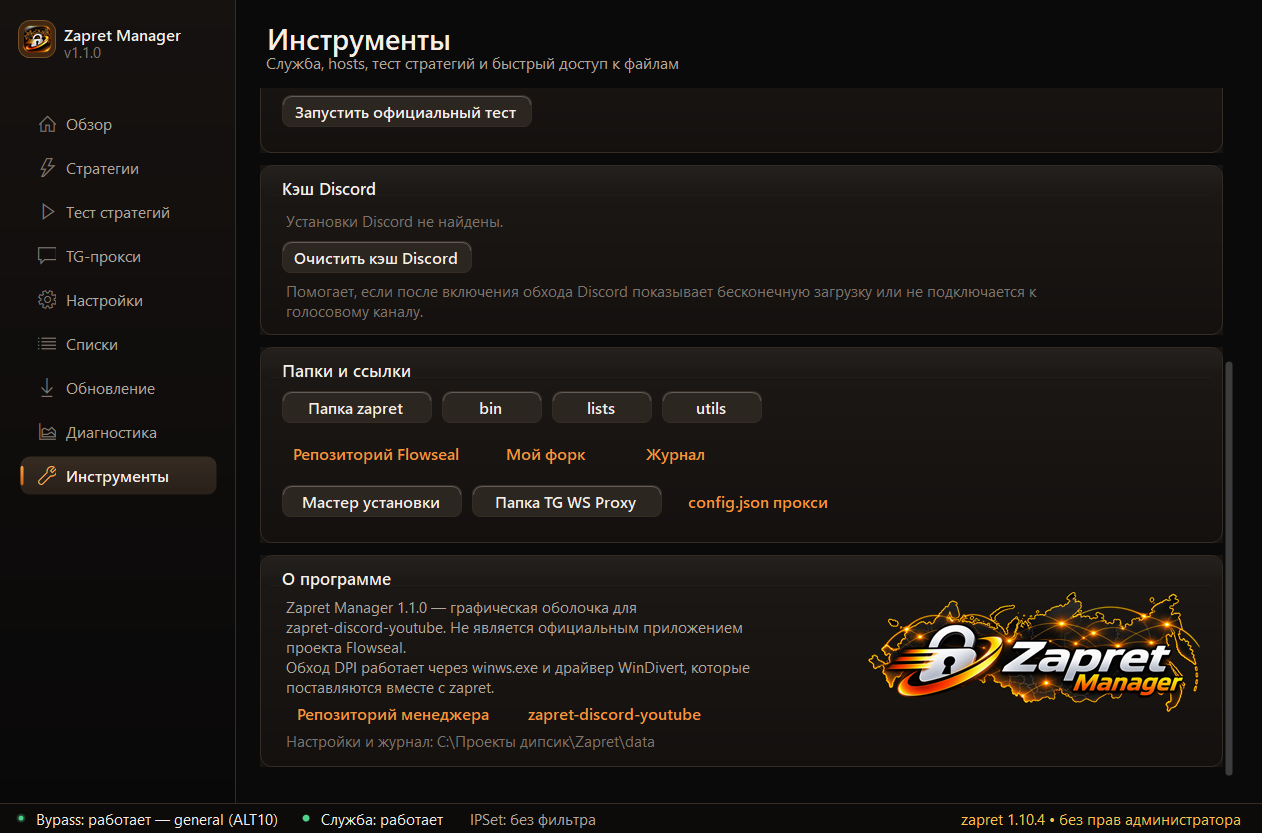
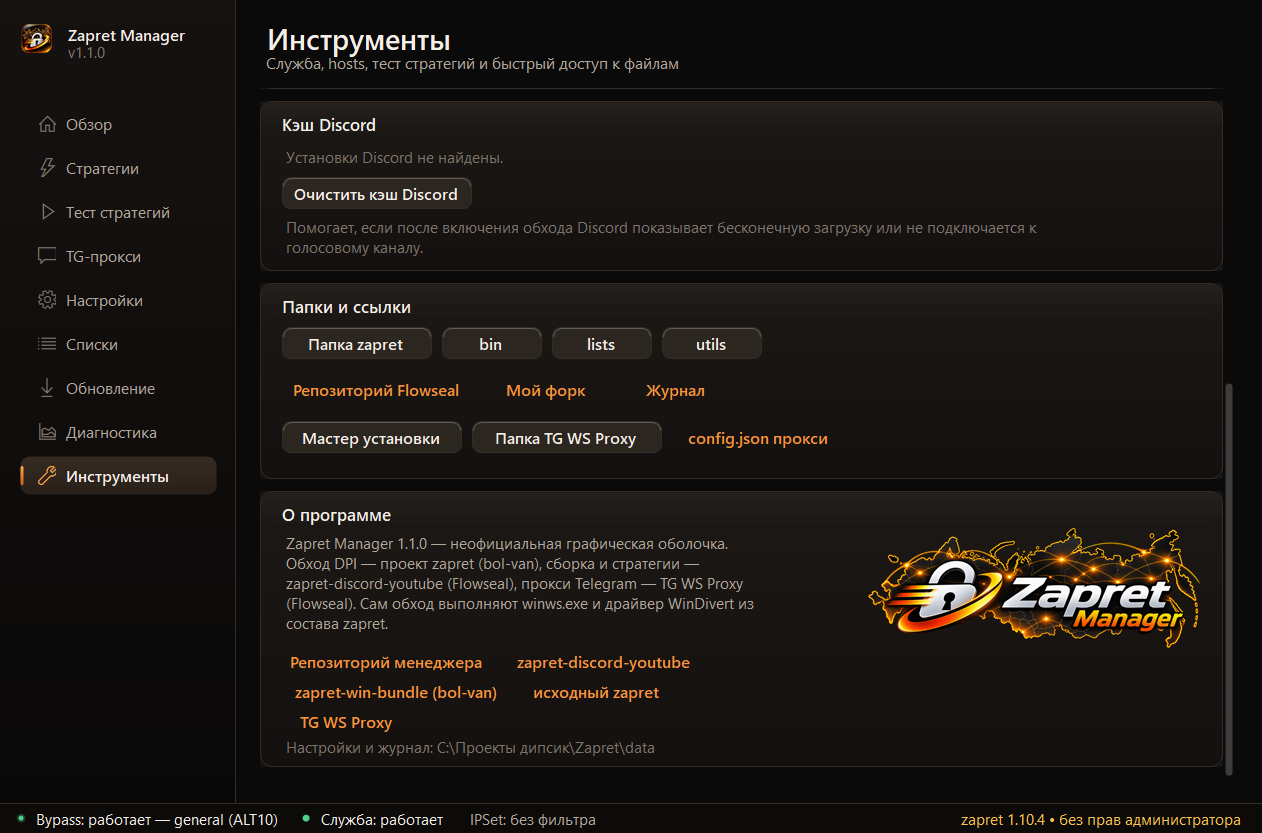
Упомянут автор оригинального zapret (bol-van) в приложении и README
- карточка «О программе»: ссылки на bol-van/zapret, bol-van/zapret-win-bundle, Flowseal-проекты и репозиторий менеджера
- текст мастера уточняет происхождение сборок
- README: раздел «Благодарности» и обновлённые ссылки

diff --git a/src/PageTools.cs b/src/PageTools.cs
@@ -1,4 +1,4 @@
-using System;
+using System;
 using System.Drawing;
 using System.IO;
 using System.Windows.Forms;
@@ -182,7 +182,7 @@ namespace ZapretManager
 
         private void BuildAboutCard()
         {
-            _aboutCard = NewCard("О программе", 212);
+            _aboutCard = NewCard("О программе", 120);
 
             Panel logoBox = new Panel();
             logoBox.Location = new Point(DesignWidth - 356, 34);
@@ -196,25 +196,43 @@ namespace ZapretManager
             };
             _aboutCard.Controls.Add(logoBox);
 
-            _aboutCard.Controls.Add(WrapLabel(string.Format("Zapret Manager {0} — графическая оболочка для zapret-discord-youtube. Не является официальным приложением проекта Flowseal.\nОбход DPI работает через winws.exe и драйвер WinDivert, которые поставляются вместе с zapret.",
-                AppInfo.Version), Theme.Small, Theme.TextDim, 22, 42, DesignWidth - 400));
+            Label aboutText = WrapLabel(string.Format("Zapret Manager {0} — неофициальная графическая оболочка.\nОбход DPI — проект zapret (bol-van), сборка и стратегии — zapret-discord-youtube (Flowseal), прокси Telegram — TG WS Proxy (Flowseal). Сам обход выполняют winws.exe и драйвер WinDivert из состава zapret.",
+                AppInfo.Version), Theme.Small, Theme.TextDim, 22, 42, DesignWidth - 396);
+            _aboutCard.Controls.Add(aboutText);
 
-            Label v = L("Настройки и журнал: " + AppPaths.DataDir, Theme.Small, Theme.TextMuted, 22, 176);
-            _aboutCard.Controls.Add(v);
+            int y = aboutText.Bottom + 8;
 
-            RoundButton repo = Btn("Репозиторий менеджера", ButtonKind.Link, 224);
-            repo.Location = new Point(22, 142);
-            repo.Click += delegate { Native.OpenUrl("https://github.com/RoBiN19666/zapret-discord-youtube"); };
+            RoundButton repo = Btn("Репозиторий менеджера", ButtonKind.Link, 210);
+            repo.Location = new Point(22, y);
+            repo.Click += delegate { Native.OpenUrl("https://github.com/RoBiN19666/ZapretManager-Windows"); };
             _aboutCard.Controls.Add(repo);
 
-            RoundButton zapret = Btn("zapret-discord-youtube", ButtonKind.Link, 200);
-            zapret.Location = new Point(256, 142);
+            RoundButton zapret = Btn("zapret-discord-youtube", ButtonKind.Link, 210);
+            zapret.Location = new Point(240, y);
             zapret.Click += delegate { Native.OpenUrl("https://github.com/Flowseal/zapret-discord-youtube"); };
             _aboutCard.Controls.Add(zapret);
 
+            RoundButton bolvan = Btn("zapret-win-bundle (bol-van)", ButtonKind.Link, 230);
+            bolvan.Location = new Point(22, y + 30);
+            bolvan.Click += delegate { Native.OpenUrl("https://github.com/bol-van/zapret-win-bundle"); };
+            _aboutCard.Controls.Add(bolvan);
+
+            RoundButton core = Btn("исходный zapret", ButtonKind.Link, 150);
+            core.Location = new Point(262, y + 30);
+            core.Click += delegate { Native.OpenUrl("https://github.com/bol-van/zapret"); };
+            _aboutCard.Controls.Add(core);
+
+            RoundButton tgproxy = Btn("TG WS Proxy", ButtonKind.Link, 130);
+            tgproxy.Location = new Point(22, y + 60);
+            tgproxy.Click += delegate { Native.OpenUrl("https://github.com/Flowseal/tg-ws-proxy"); };
+            _aboutCard.Controls.Add(tgproxy);
+
+            Label v = L("Настройки и журнал: " + AppPaths.DataDir, Theme.Small, Theme.TextMuted, 22, y + 92);
+            _aboutCard.Controls.Add(v);
+
+            _aboutCard.Height = y + 92 + 16 + 14;
             View.Stack.Add(_aboutCard);
         }
-
         private void InstallService()
         {
             if (Shell.Install == null || !Shell.Install.IsValid) { Shell.Notify("Папка zapret не найдена.", LogLevel.Error); return; }

diff --git a/src/SetupWizard.cs b/src/SetupWizard.cs
@@ -45,7 +45,7 @@ namespace ZapretManager
             ClientSize = new Size(760, 576);
 
             Controls.Add(L("Первая настройка", Theme.Title, Theme.Text, 28, 22));
-            Controls.Add(WrapLabel("Отметьте, что нужно установить. Обе программы официальные и скачиваются с GitHub Flowseal. Позже это можно повторить из «Инструменты» → «Мастер установки».",
+            Controls.Add(WrapLabel("Отметьте, что нужно установить. Скачиваются официальные сборки: zapret (bol-van) в варианте zapret-discord-youtube (Flowseal) и TG WS Proxy (Flowseal). Позже это можно повторить из «Инструменты» → «Мастер установки».",
                 Theme.Small, Theme.TextDim, 28, 56, 590));
 
             BuildZapretCard();

diff --git a/README.md b/README.md
@@ -1,8 +1,9 @@
-# Zapret Manager
+# Zapret Manager
 
 Графическая оболочка (один `.exe`, без установки и зависимостей) для
 [zapret-discord-youtube](https://github.com/Flowseal/zapret-discord-youtube) —
-инструмента обхода DPI-блокировок Discord и YouTube.
+инструмента обхода DPI-блокировок Discord и YouTube, построенного на
+[zapret](https://github.com/bol-van/zapret) (автор — **bol-van**).
 
 Приложение не заменяет zapret: оно кладётся рядом с `service.bat`, находит установку,
 читает ваши `.bat`-стратегии и запускает `winws.exe` с теми же аргументами,
@@ -238,14 +239,33 @@ assets\         иконка, логотип и их исходники (source\
 ## Ограничения
 
 - Требуются права администратора: `winws.exe` работает через драйвер WinDivert.
-- Приложение не является официальным продуктом Flowseal; за обход DPI отвечает
-  сам zapret и выбранная стратегия.
+- Приложение не является официальным продуктом ни bol-van (автор zapret), ни Flowseal;
+  за обход DPI отвечает сам zapret и выбранная стратегия.
 - Автообновление работает только с официальным репозиторием Flowseal.
+
+## Благодарности
+
+Менеджер лишь управляет чужими программами — вся заслуга в обходе DPI и прокси принадлежит их авторам:
+
+- **zapret** — обход DPI как таковой (winws, стратегии, WinDivert): автор **bol-van**,
+  <https://github.com/bol-van/zapret> — исходный проект,
+  <https://github.com/bol-van/zapret-win-bundle> — Windows-сборка с бинарниками.
+- **zapret-discord-youtube** — готовая сборка, стратегии `general*.bat`, `service.bat`,
+  автообновление списков и `hosts`: **Flowseal**,
+  <https://github.com/Flowseal/zapret-discord-youtube>.
+- **TG WS Proxy** — локальный MTProto-прокси через WebSocket: **Flowseal**,
+  <https://github.com/Flowseal/tg-ws-proxy>.
+- **WinDivert** — перехват трафика в user-mode (поставляется в составе zapret).
+
+Zapret Manager — неофициальная графическая оболочка, не связанная с авторами этих проектов.
 
 ## Ссылки
 
-- Официальный проект: <https://github.com/Flowseal/zapret-discord-youtube>
-- Форк с исходниками менеджера: <https://github.com/RoBiN19666/zapret-discord-youtube>
+- Запрет (обход DPI), оригинальный проект: <https://github.com/bol-van/zapret>
+- Windows-сборка zapret от bol-van: <https://github.com/bol-van/zapret-win-bundle>
+- zapret-discord-youtube (сборка и стратегии): <https://github.com/Flowseal/zapret-discord-youtube>
+- TG WS Proxy: <https://github.com/Flowseal/tg-ws-proxy>
+- Репозиторий менеджера: <https://github.com/RoBiN19666/ZapretManager-Windows>
 
 ## Оформление
 
